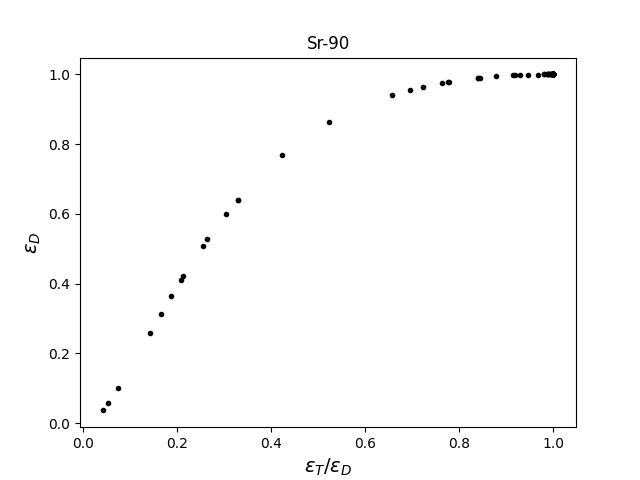
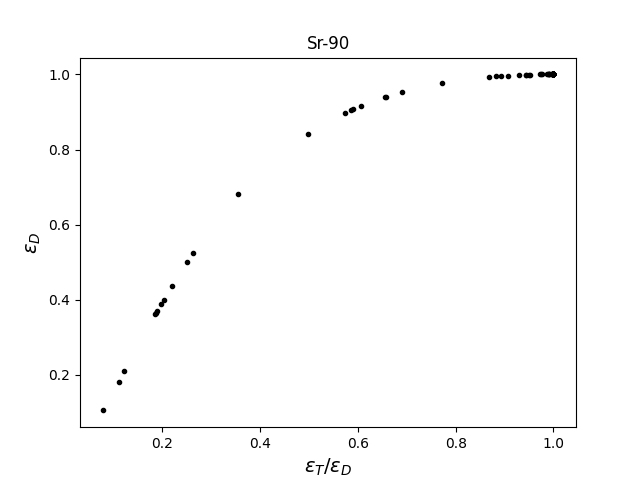
test

diff --git a/MCTDCRcode/main_MCTDCR.py b/MCTDCRcode/main_MCTDCR.py
@@ -17,10 +17,10 @@ import scipy.stats as st
 
 ## INPUT OF THE MODEL
 N=5               # number of simulated decay (MC trials)
-Rad=["Sr-90"]       # list of radionuclides
+Rad=["H-3"]       # list of radionuclides
 pmf_1=[1]       # relative abondance (pmf)
 kB = 1e-5         # Birks constant in cm/keV
-L = np.arange(1e-2,5,5e-2) # Free paramete in keV-1
+L = np.arange(1e-2,3,5e-2) # Free paramete in keV-1
 TDCR_measure = 0.977784        # Measured TDCR value
 u_TDCR_measure = 0.000711      # standard uncertainty
 RHO = 0.96         #density of absorber (Toluene) g/cm3
@@ -160,8 +160,9 @@ for L_i in L: # loop on the free parameter values
 
        ## Calculation of the TDCR ratio 
        ## We fill our 3 results vectors
-       efficiency_T.append((1-np.exp(-L_i*sum(energy_vec)/3))**3)
-       efficiency_D.append(3*(1-np.exp(-L_i*sum(energy_vec)/3))**2-2*efficiency_T[-1])
+       p_single = 1-np.exp(-L_i*sum(energy_vec)/3)
+       efficiency_T.append((p_single)**3)
+       efficiency_D.append(3*(p_single)**2-2*efficiency_T[-1])
 
 
     # We calculate the final estimator
@@ -199,6 +200,7 @@ for L_i in L: # loop on the free parameter values
     plt.figure("Efficiency curve")
     plt.title(''.join(Rad))
     plt.plot(TDCR_calcul_vec,efficiency_D,".k")[0]
+    plt.plot(TDCR_calcul_vec,efficiency_T,".b")[0]
     #plt.plot([TDCR_measure, TDCR_measure], [min(mean_efficiency_D), max(mean_efficiency_D)], '-r', label="Measurement")
     plt.xlabel(r"$\epsilon_T/\epsilon_D$", fontsize = 14)
     plt.ylabel(r"$\epsilon_D$", fontsize = 14)
